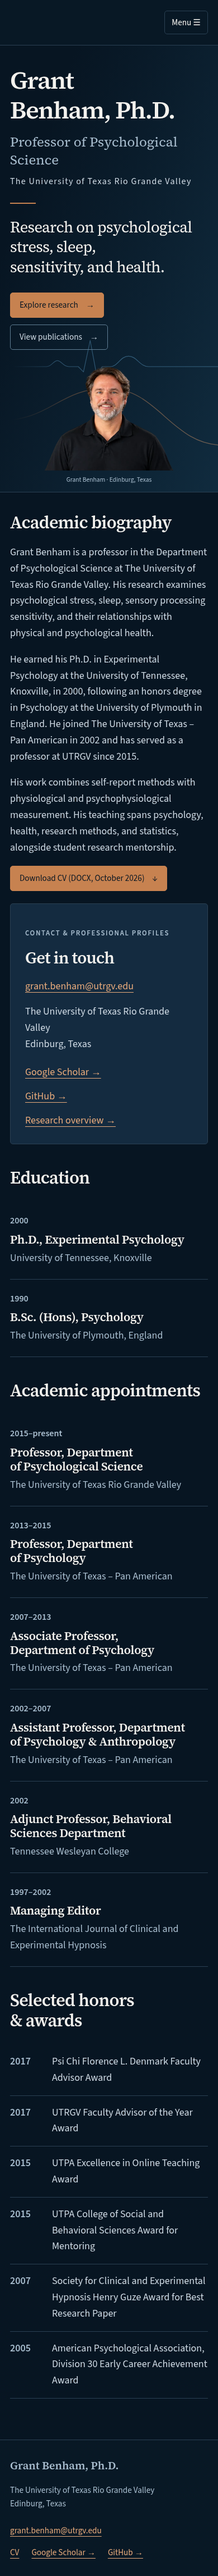
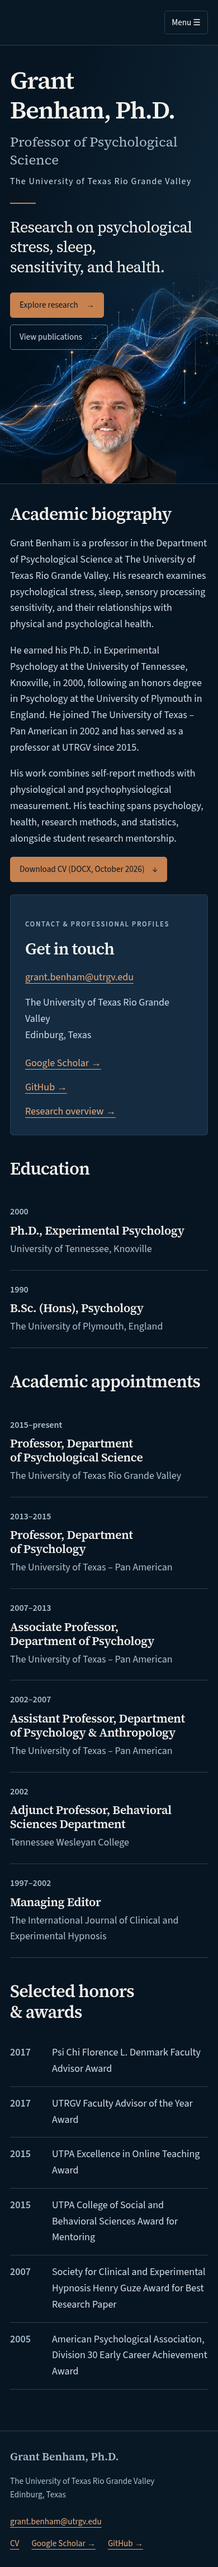
Tighten portrait crop and enrich abstract rhythm background

diff --git a/src/styles/global.css b/src/styles/global.css
@@ -821,8 +821,8 @@ a{
 
 
 /* Decorative illustrations never sit behind body copy. */
-.hero-art { position:absolute; width:820px; height:456px; right:-40px; bottom:0; z-index:-1; pointer-events:none; }
-.hero-rhythms { display:block; width:100%; height:auto; }
+.hero-art { position:absolute; width:80%; height:100%; right:0; bottom:0; z-index:-1; pointer-events:none; mask-image:linear-gradient(to right,transparent 0%,transparent 28%,#000 65%); }
+.hero-art img { width:100%; height:100%; object-fit:cover; object-position:center right; }
 .research-title { display:flex; align-items:center; justify-content:space-between; gap:24px; margin-bottom:20px; }
 .research-title h2 { margin-bottom:0; }
 .research-art { width:150px; flex:0 0 150px; opacity:.75; }
@@ -836,7 +836,7 @@ a{
 .site-header .wordmark:hover { color:var(--link); }
 @media(max-width:1100px) { #main-navigation { width:100%; justify-content:flex-end; } }
 @media(max-width:700px) {
-  .hero-art { width:600px; height:auto; right:-230px; bottom:20px; opacity:.65; }
+  .hero-art { width:100%; height:380px; right:0; bottom:0; mask-image:linear-gradient(to bottom,transparent,#000 35%); }
   .hero-grid { gap:28px; }
   .research-section { padding:var(--space-3); }
   .research-art { width:75px; flex-basis:75px; }
@@ -851,15 +851,15 @@ a{
   .citation { background:#fff; }
 }
 
-/* Frame-free portrait composition, with restrained rhythms behind the subject. */
+/* Frame-free portrait composition, with abstract signal artwork behind the subject. */
 .header-inner { justify-content:flex-end; min-height:80px; }
-.hero-grid { grid-template-columns:minmax(0,1fr) 420px; gap:40px; align-items:center; padding-block:48px 0; }
+.hero-grid { grid-template-columns:minmax(0,1fr) 450px; gap:40px; align-items:center; padding-block:48px 0; }
 .hero-copy { padding-bottom:48px; }
-.portrait { max-width:420px; align-self:end; }
+.portrait { max-width:450px; align-self:end; }
 .portrait-frame { padding:0; background:transparent; border:0; box-shadow:none; }
-.portrait img { aspect-ratio:840/684; object-fit:contain; }
-.portrait figcaption { text-align:center; margin-top:8px; padding-bottom:12px; }
-@media(min-width:1500px) { .hero-grid { grid-template-columns:1fr 420px; } .portrait { max-width:420px; } }
+.portrait img { aspect-ratio:840/763; object-fit:contain; }
+.portrait figcaption { margin:0; padding:0; }
+@media(min-width:1500px) { .hero-grid { grid-template-columns:1fr 450px; } .portrait { max-width:450px; } }
 @media(max-width:1100px) { .hero-grid { grid-template-columns:minmax(0,1fr) 330px; gap:24px; } .portrait { max-width:330px; } }
 @media(max-width:700px) {
   .hero-grid { grid-template-columns:1fr; gap:20px; padding-top:36px; }

diff --git a/src/config.ts b/src/config.ts
@@ -14,7 +14,7 @@ export const site = {
   portrait: '/images/grant-benham-cutout.webp',
   portraitSmall: '/images/grant-benham-cutout-420.webp',
   portraitWidth: 840,
-  portraitHeight: 684,
+  portraitHeight: 763,
   cv: '/documents/Grant-Benham-CV-2026-10.docx',
   cvLabel: 'Download CV (DOCX, October 2026)',
   scholar: 'https://scholar.google.com/citations?user=OT4muuUAAAAJ',

diff --git a/docs/DARK-DESIGN-REVIEW.md b/docs/DARK-DESIGN-REVIEW.md
@@ -54,7 +54,7 @@ The existing biography, education, appointments, awards, and contact information
 
 ## What changed
 
-Navy backgrounds, off-white serif headings, pale blue-gray body text, copper links and buttons, thin borders, and consistent dark cards and search controls. Behind the portrait, a single schematic P–QRS–T trace in blue is paired with a broad copper circadian wave. The research headings retain their small decorative wave illustrations. There are no campus photographs, institutional logos, new marketing statements, animations, or image color filters.
+Navy backgrounds, off-white serif headings, pale blue-gray body text, copper links and buttons, thin borders, and consistent dark cards and search controls. Behind the head-and-collar portrait, generated abstract artwork combines layered luminous blue and copper rhythm ribbons with pulse-like peaks and fine measurement-inspired details. The background fades out beside the text; the portrait is cropped just below the open collar and sits flush with the hero’s lower edge. The research headings retain their small decorative wave illustrations. There are no campus photographs, institutional logos, new marketing statements, animations, or image color filters.
 
 Following your latest revision, the name/link at the upper left is removed. The plain-text footer requested in the redesign brief remains. The seven menu destinations, Teaching-before-Software order, combined Home/About content, alumni order and 120-pixel photos, software selection, and archive functionality are preserved.
 
@@ -67,7 +67,7 @@ Central colors, surfaces, typography, spacing, radius, gradient, and shadow sett
 - Automated WCAG A/AA checks passed on all seven main pages and the open mobile menu. Layouts checked at 1440, 768, 390, and 320 pixels wide with no horizontal overflow.
 - Main text and link destinations are preserved on all seven pages. Image paths are unchanged except for the intentionally revised homepage portrait. Structured content data, original media, dependency files, and deployment workflows remain unchanged.
 - The six linked software repositories were reachable through GitHub. The unchanged gbEFA application URL accepted a GET request (HTTP 202); the external application itself was not functionally tested. External Google Scholar and a sampled DOI destination reject automated requests in this environment; their unchanged destinations were preserved. Automated accessibility checks do not replace a full human accessibility audit.
-- Screenshots were generated from the built website and visually inspected. The new portrait is an AI-generated transparent cutout derived from your supplied dark mockup, saved as responsive WebP assets. Its likeness is part of this design review. The original white-site portrait is retained in the repository for recovery.
+- Screenshots were generated from the built website and visually inspected. The new portrait is an AI-generated transparent cutout derived from your supplied dark mockup, tightly cropped to the head and collar and saved as responsive WebP assets. The generated abstract backdrop is supplied at 1536- and 768-pixel widths (approximately 145 KB and 39 KB). Its likeness is part of this design review. The original white-site portrait is retained in the repository for recovery.
 - The public homepage was compared byte for byte before and after the work and remains unchanged.
 
 ## Interactive preview — optional, for someone running the site locally
